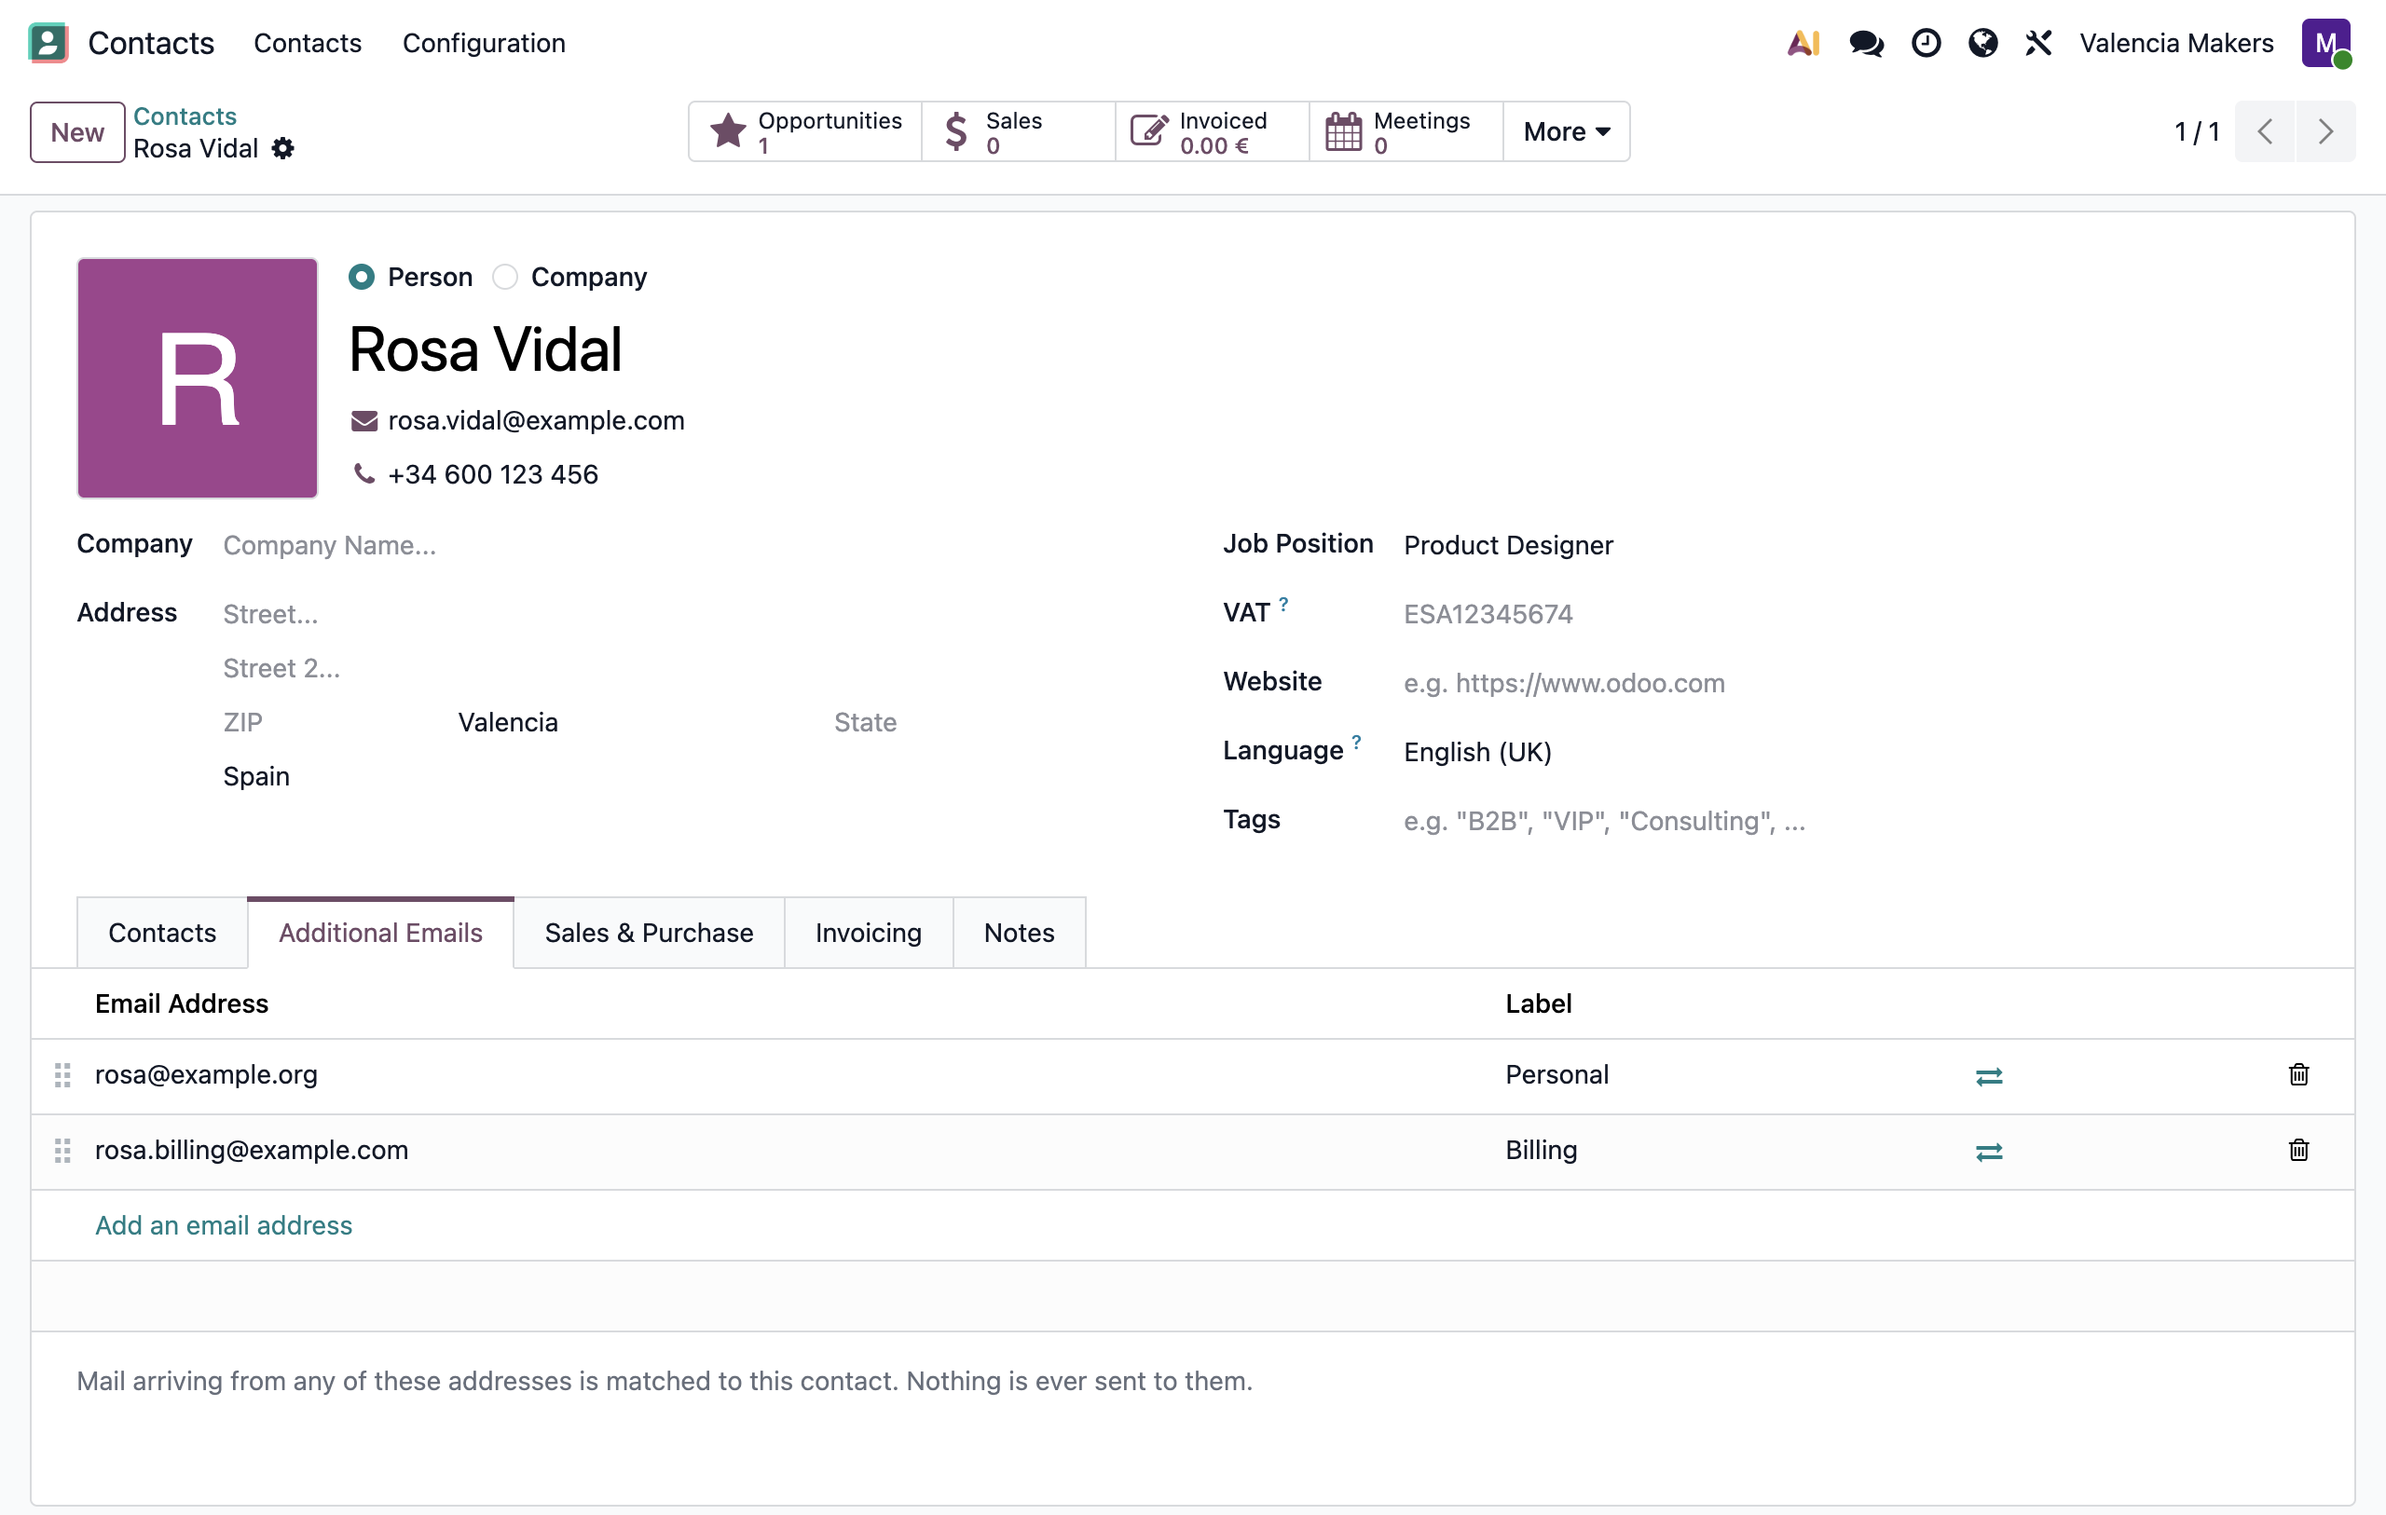
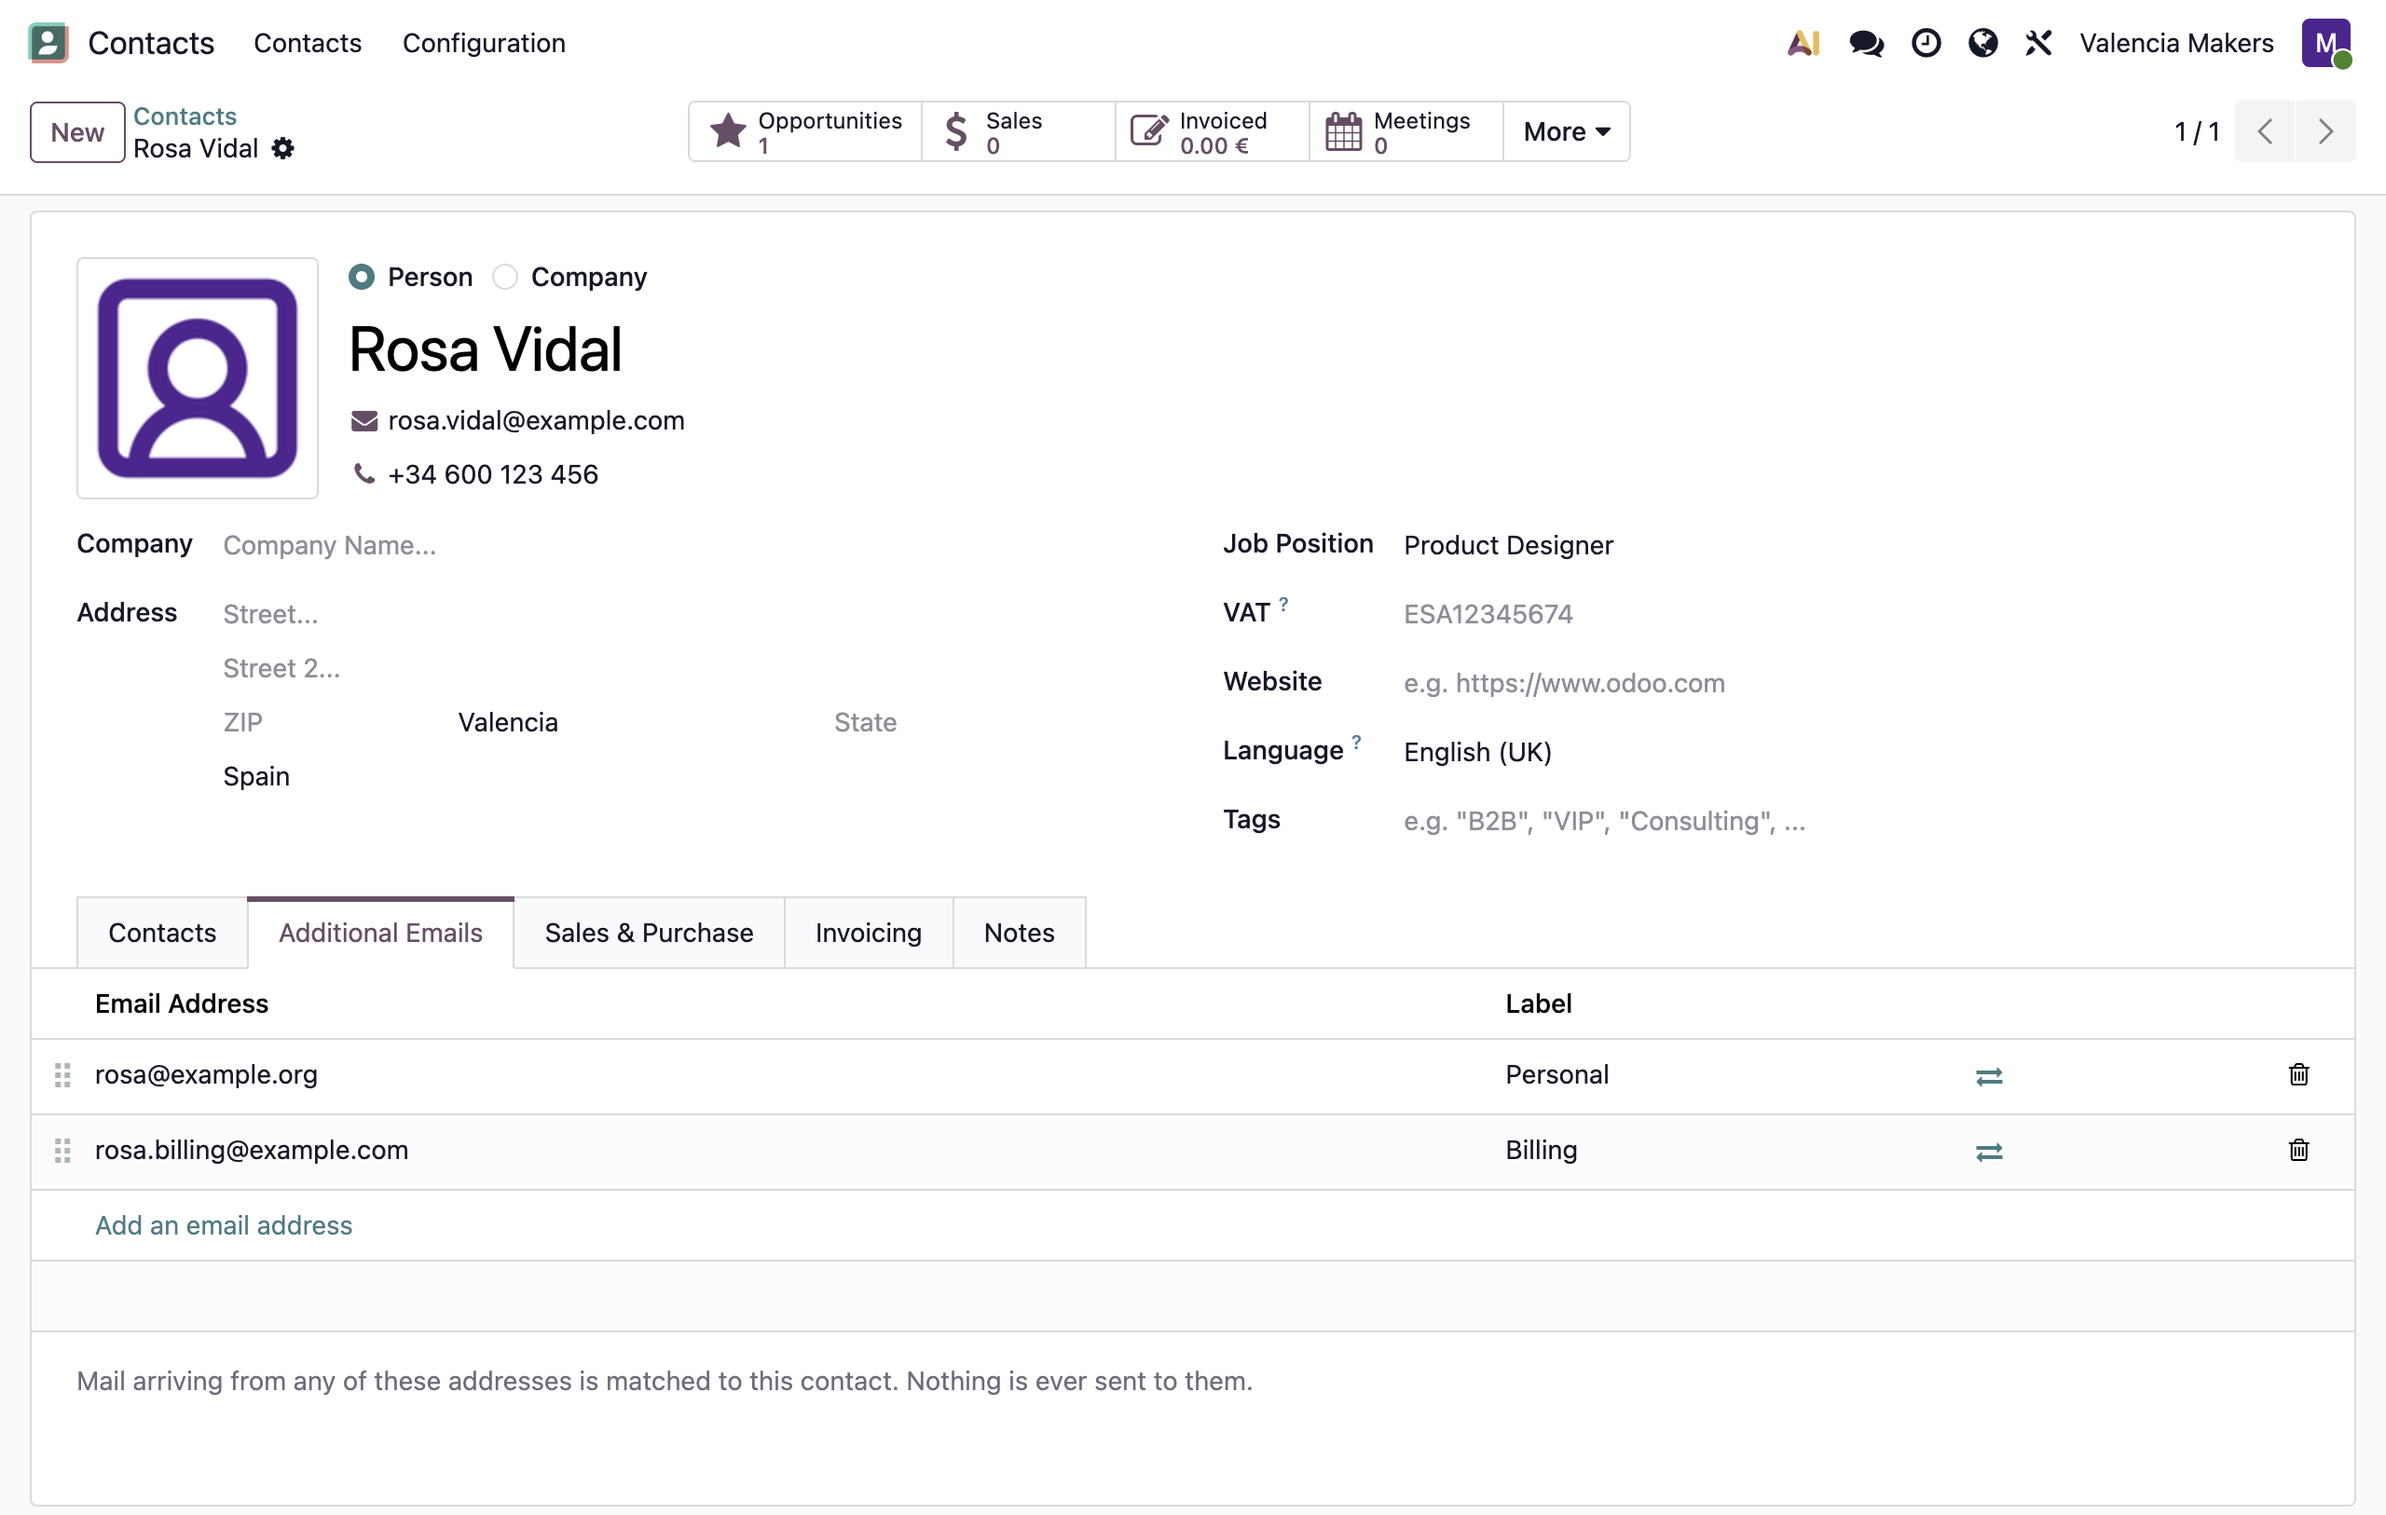
Rework Multiple Contact Emails' cover and screenshots after review
- The cover is one card: the contact's name and primary address above the Additional
  Emails list. A lead's Contact and Email rows, the old front card, were hard to read
  out of context.
- The demo contact's image is Lucide's square-user-round in our purple, kept in
  tools/shots/demo/ and set by the README's snippet. The form shows its 128px preview,
  which blurs at 2x, so the recipe loads the 1024px image for the capture.
- lead.png is taken 900px wide, with the chatter below the form. Its tabs and empty
  Properties row are hidden and its two field groups forced side by side, so the message
  sits under the Contact and Email rows and stays readable at the page's width.
- Tagline: "Multiple email addresses per contact, all matched to incoming mail".

Changed region(s): [[0.0312, 0.1538, 0.1562, 0.3383]]

diff --git a/tools/covers/vmk_partner_email_multiple.html b/tools/covers/vmk_partner_email_multiple.html
@@ -9,19 +9,14 @@
     <div class="text">
         <div class="badges"><span class="badge">Odoo 19</span><span class="badge">Community &amp; Enterprise</span></div>
         <h1>Multiple<br>Contact Emails</h1>
-        <p class="tagline">Several email addresses per contact,<br>all matched to incoming mail</p>
+        <p class="tagline">Multiple email addresses per contact,<br>all matched to incoming mail</p>
     </div>
     <div class="brand"><img src="../../vmk_partner_email_multiple/static/description/icon.png" alt="">Valencia Makers</div>
-    <!-- Two cover-only captures from tools/covers/img/, made at 2x: behind, a contact's Additional
-         Emails tab; in front, a lead's Contact and Email rows, the contact found from one of them. -->
-    <div class="shot" style="left: 416px; top: 76px; width: 448px; height: 168px;">
-        <div style="position: absolute; left: 14px; top: 14px; width: 420px; height: 140px; overflow: hidden;">
-            <img src="img/vmk_partner_email_multiple_emails.png" style="width: 420px; left: 0; top: 0;" alt="">
-        </div>
-    </div>
-    <div class="shot" style="left: 392px; top: 272px; width: 270px; height: 92px;">
-        <div style="position: absolute; left: 14px; top: 14px; width: 242px; height: 64px; overflow: hidden;">
-            <img src="img/vmk_partner_email_multiple_lead.png" style="width: 380px; left: 0; top: 0;" alt="">
+    <!-- One cover-only capture from tools/covers/img/, made at 2x: a contact's name and primary
+         address above the Additional Emails tab, with the field groups between them hidden. -->
+    <div class="shot" style="left: 400px; top: 76px; width: 468px; height: 287.7px;">
+        <div style="position: absolute; left: 14px; top: 14px; width: 440px; height: 259.2px; overflow: hidden;">
+            <img src="img/vmk_partner_email_multiple_emails.png" style="width: 440px; left: 0; top: -0.7px;" alt="">
         </div>
     </div>
 </div>

diff --git a/tools/shots/recipes/vmk_partner_email_multiple.py b/tools/shots/recipes/vmk_partner_email_multiple.py
@@ -4,8 +4,8 @@
 # ///
 """Multiple Contact Emails: a contact's Additional Emails tab, and a lead matched from one of them.
 
-Writes main_screenshot.png and lead.png to the module, and the cover's cut-outs
-vmk_partner_email_multiple_emails.png and vmk_partner_email_multiple_lead.png to tools/covers/img/.
+Writes main_screenshot.png and lead.png to the module, and the cover's cut-out
+vmk_partner_email_multiple_emails.png to tools/covers/img/.
 The demo data is in tools/shots/README.md.
 """
 import asyncio, sys
@@ -18,6 +18,24 @@ CONTACT = "Rosa Vidal"
 LEAD = "Laser cutting for a small order"
 # capture-only: the form scrolls, and its scrollbar would show at the right edge
 NO_SCROLLBAR = "* { scrollbar-width: none !important; }"
+# capture-only, for the cover: the field groups between the contact's name and the tabs
+COVER_CSS = " .o_form_sheet .o_group { display: none !important; }"
+# capture-only, for the lead: its Notes and Contacts tabs, between the rows and the message, and
+# the empty Properties row under them; and the form's two groups side by side, as above
+# Bootstrap's lg breakpoint, rather than stacked
+LEAD_CSS = """ .o_form_sheet .o_notebook { display: none !important; }
+    .o_form_sheet > .d-flex:has(> .o_field_widget[name=lead_properties]) { display: none !important; }
+    .o_form_sheet .o_group.row > .o_inner_group.col-lg-6 { flex: 0 0 auto !important; width: 50% !important; }"""
+
+
+async def sharp_avatar(page):
+    """Capture-only: the form shows the 128px preview (preview_image: avatar_128 in base's partner
+    form), which a 2x capture scales up and blurs; load the 1024px one in its place."""
+    await page.evaluate("""() => Promise.all([...document.querySelectorAll('.oe_avatar img')].map(img => {
+        if (!img.src.includes('avatar_128')) return;
+        img.src = img.src.replace('avatar_128', 'avatar_1024');
+        return img.decode(); }))""")
+    await page.wait_for_timeout(300)
 
 
 async def main(out, parts):
@@ -29,37 +47,32 @@ async def main(out, parts):
         contact = await shots.record_id(page, "res.partner", CONTACT)
         await shots.open_backend(page, f"/odoo/contacts/{contact}", extra_css=NO_SCROLLBAR)
         await page.locator(".o_notebook .nav-link[name=vmk_additional_emails]").first.click(); await page.wait_for_timeout(700)
+        await sharp_avatar(page)
         await shots.polish(page); await shots.park_mouse(page, 1280, 900)
         sheet = await page.locator(".o_form_sheet").first.bounding_box()
         await page.screenshot(path=out / "main_screenshot.png", clip={"x": 0, "y": 0, "width": 1280, "height": sheet["y"] + sheet["height"] + 5})
-        # cover part: the tabs and the list, narrower so the columns sit close
+        # cover part: the contact's name and primary address above the Additional Emails list,
+        # narrower so the columns sit close, with the field groups between them hidden
         await page._vmk_cdp.send("Emulation.setDeviceMetricsOverride",
                                  {"width": 620, "height": 900, "deviceScaleFactor": 2, "mobile": False})
-        await shots.open_backend(page, f"/odoo/contacts/{contact}", extra_css=NO_SCROLLBAR)
+        await shots.open_backend(page, f"/odoo/contacts/{contact}", extra_css=NO_SCROLLBAR + COVER_CSS)
         await page.locator(".o_notebook .nav-link[name=vmk_additional_emails]").first.click(); await page.wait_for_timeout(700)
+        await sharp_avatar(page)
         await shots.polish(page); await shots.park_mouse(page, 620, 900)
-        nb = await page.locator(".o_notebook").first.bounding_box()
+        sheet = await page.locator(".o_form_sheet").first.bounding_box()
         add = await page.locator(".o_notebook .o_field_x2many_list_row_add").first.bounding_box()
         await page.screenshot(path=parts / "vmk_partner_email_multiple_emails.png", clip={
-            "x": nb["x"], "y": nb["y"], "width": nb["width"], "height": add["y"] + add["height"] - nb["y"] + 1})
-        # the lead, its contact found from the address the mail came from; wide enough for the
-        # chatter to sit beside the form, and down to the end of the message
+            "x": sheet["x"], "y": sheet["y"], "width": sheet["width"], "height": add["y"] + add["height"] - sheet["y"] + 1})
+        # the lead, its contact found from the address the mail came from: narrow enough for the
+        # chatter to fall below the form, with the tabs hidden so the message sits under the rows
         await page._vmk_cdp.send("Emulation.setDeviceMetricsOverride",
-                                 {"width": 1600, "height": 900, "deviceScaleFactor": 2, "mobile": False})
+                                 {"width": 900, "height": 1000, "deviceScaleFactor": 2, "mobile": False})
         lead = await shots.record_id(page, "crm.lead", LEAD)
-        await shots.open_backend(page, f"/odoo/crm/{lead}")
+        await shots.open_backend(page, f"/odoo/crm/{lead}", extra_css=NO_SCROLLBAR + LEAD_CSS)
         await page.wait_for_selector(".o-mail-Message"); await page.wait_for_timeout(500)
-        await shots.polish(page); await shots.park_mouse(page, 1600, 900)
+        await shots.polish(page); await shots.park_mouse(page, 900, 1000)
         message = await page.locator(".o-mail-Message").first.bounding_box()
-        phone = await page.locator(".o_form_sheet .o_field_widget[name=phone]").first.bounding_box()
-        bottom = max(message["y"] + message["height"], phone["y"] + phone["height"]) + 16
-        await page.screenshot(path=out / "lead.png", clip={"x": 0, "y": 0, "width": 1600, "height": bottom})
-        # cover part: the lead's Contact and Email rows
-        contact_row = await page.locator(".o_form_sheet .o_cell:has(> .o_field_widget[name=partner_id]), .o_form_sheet .o_wrap_field:has(.o_field_widget[name=partner_id])").first.bounding_box()
-        email = await page.locator(".o_form_sheet .o_field_widget[name=email_from]").first.bounding_box()
-        x0, y0 = 20 + 8, contact_row["y"] - 12
-        await page.screenshot(path=parts / "vmk_partner_email_multiple_lead.png", clip={
-            "x": x0, "y": y0, "width": email["x"] + email["width"] - x0 + 12, "height": email["y"] + email["height"] - y0 + 10})
+        await page.screenshot(path=out / "lead.png", clip={"x": 0, "y": 0, "width": 900, "height": message["y"] + message["height"] + 16})
     print("wrote", out)
 
 

diff --git a/tools/shots/README.md b/tools/shots/README.md
@@ -56,7 +56,8 @@ env.cr.commit()
   Catalan, French, German, and Spanish. The Language Sequence recipe sets their order; the Protect
   Language Edits recipe changes Catalan's ISO code to `ca`, which protects it.
 - for Multiple Contact Emails, with the module and CRM installed, a contact named **Rosa Vidal**
-  with two additional addresses, and a lead that arrived by email from one of them. The lead goes
+  with two additional addresses and, as the contact's image, Lucide's `square-user-round` in our
+  purple (`demo/rosa_vidal.png`), and a lead that arrived by email from one of them. The lead goes
   through the mail gateway, so its contact is found the way real mail finds it; the snippet
   recreates both, so it is safe to run again:
 
@@ -69,6 +70,8 @@ rosa.write({"email": "rosa.vidal@example.com", "phone": "+34 600 123 456", "func
     "vmk_email_ids": [(5, 0, 0),
         (0, 0, {"email": "rosa@example.org", "label": "Personal", "sequence": 10}),
         (0, 0, {"email": "rosa.billing@example.com", "label": "Billing", "sequence": 20})]})
+import base64
+rosa.image_1920 = base64.b64encode(open("/mnt/extra-addons/odoo-addons-custom/tools/shots/demo/rosa_vidal.png", "rb").read())
 env["crm.lead"].search([("name", "=", "Laser cutting for a small order")]).unlink()
 lead = env["crm.lead"].browse(env["mail.thread"].message_process("crm.lead", """From: Rosa Vidal <rosa@example.org>
 To: info@example.com
